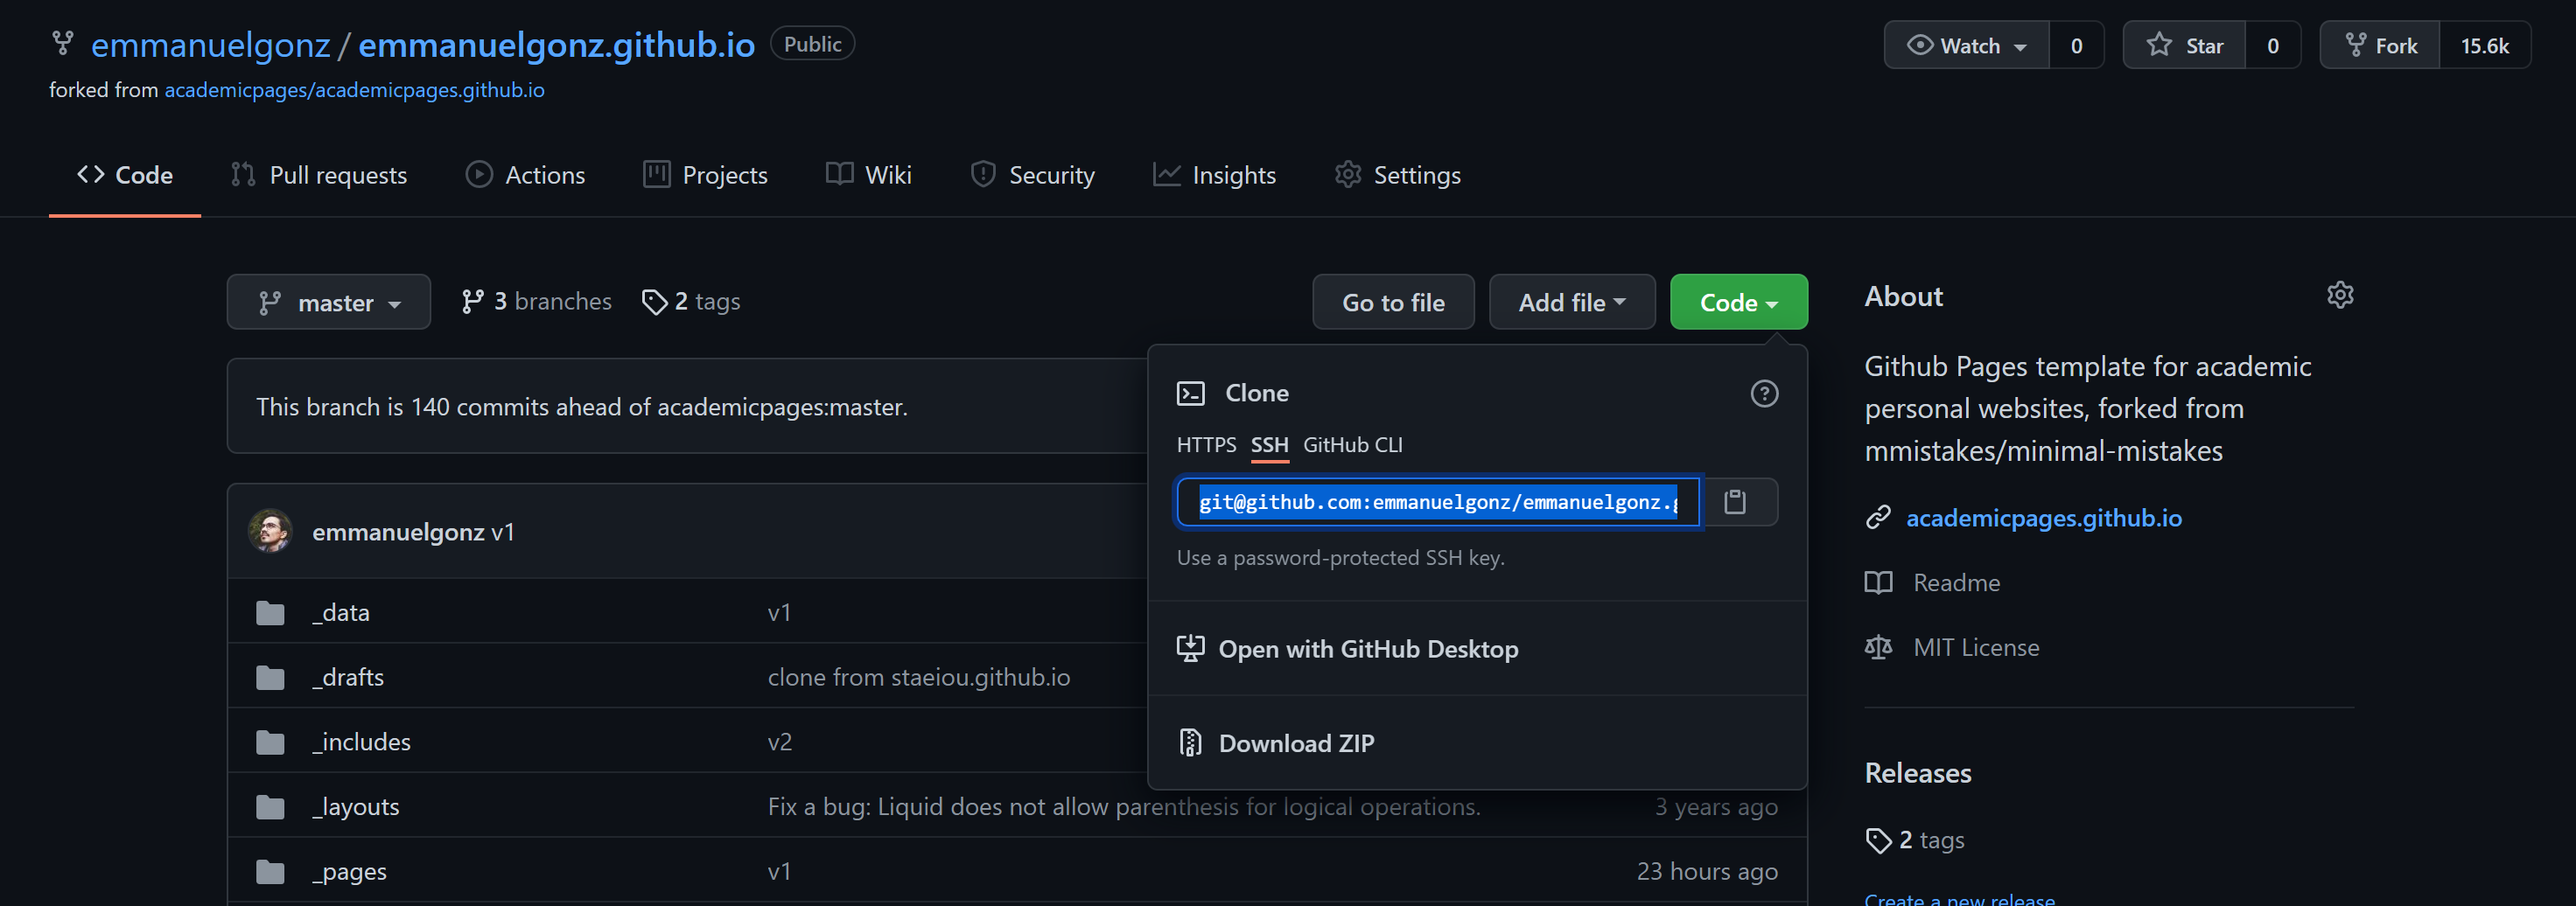
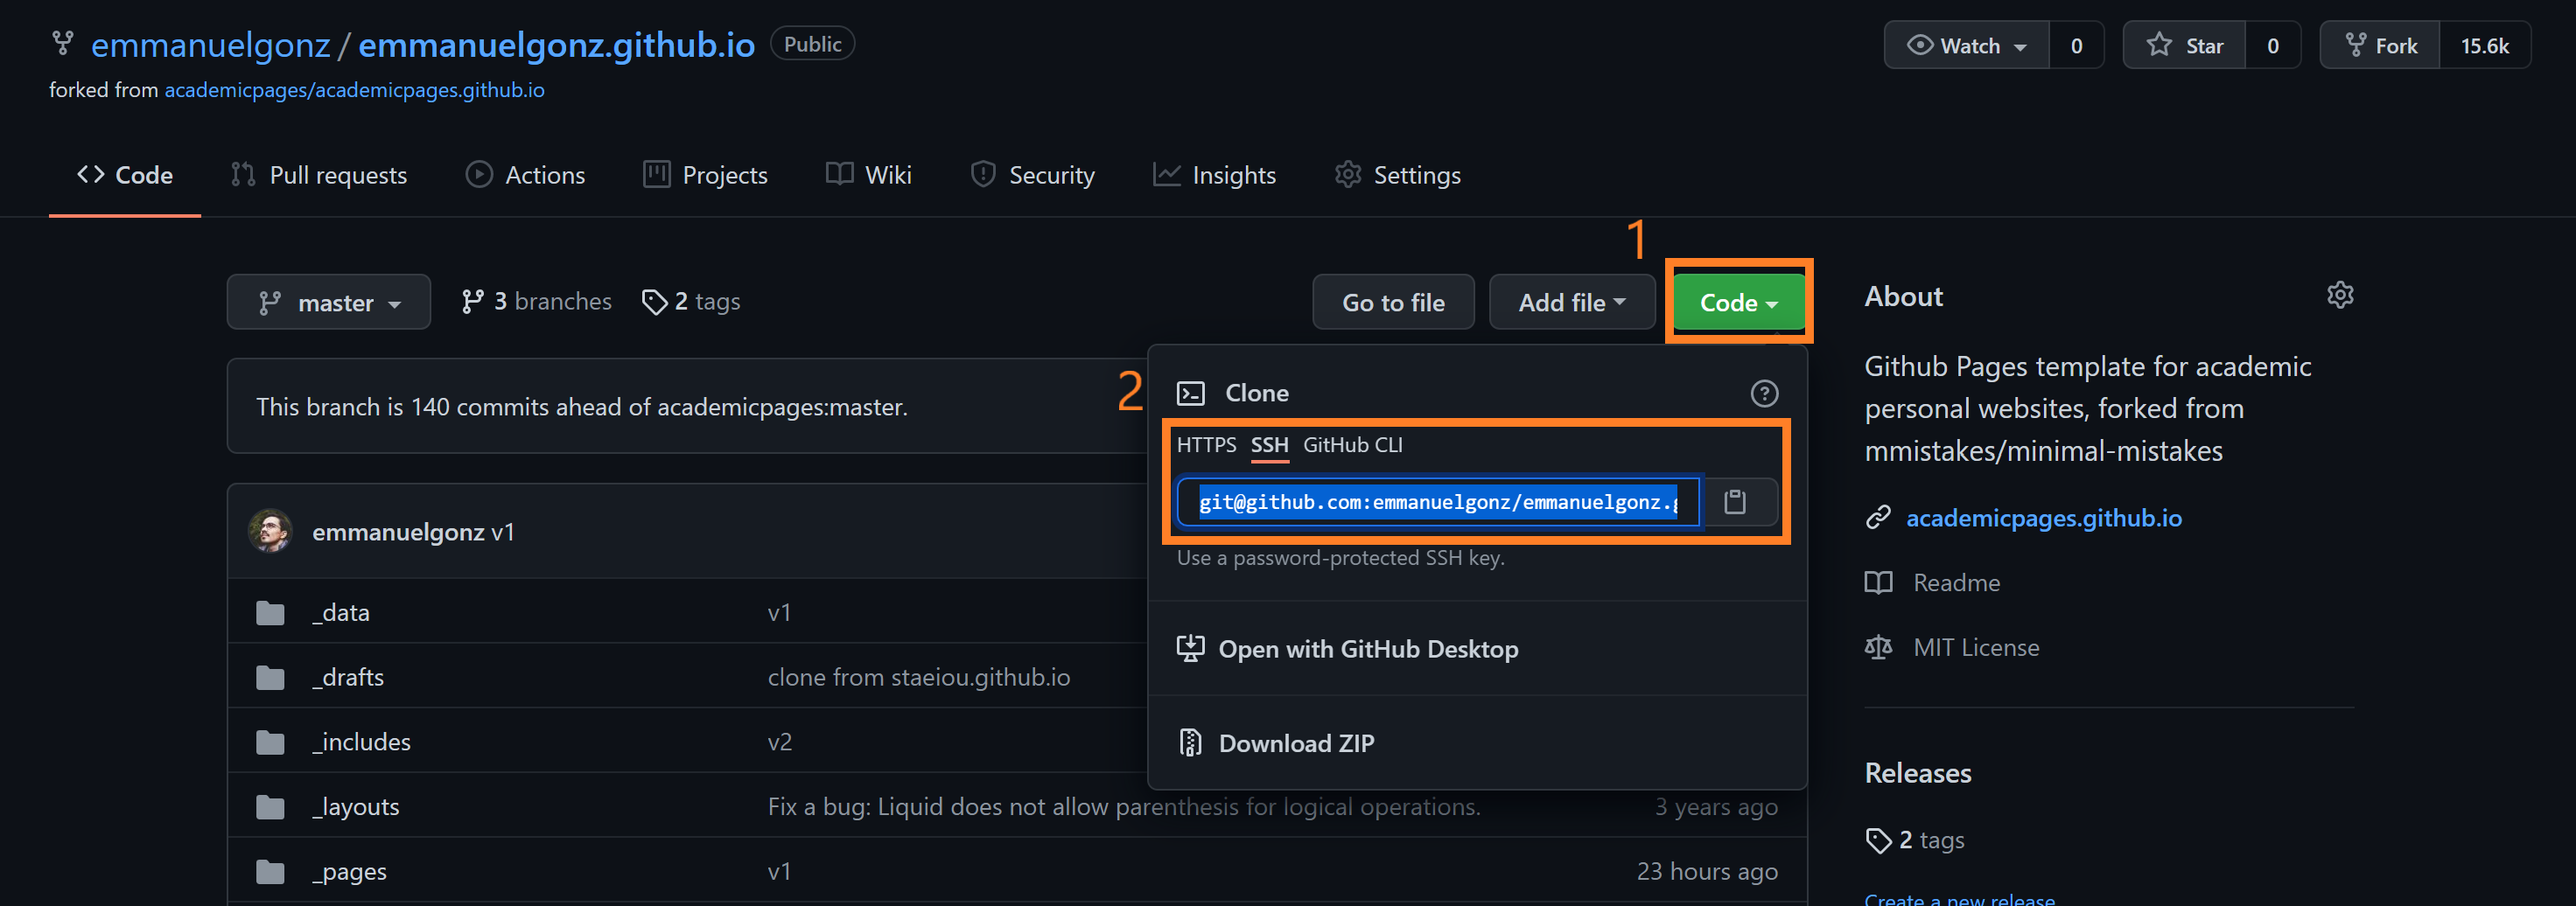
v2

Changed region(s): [[0.4375, 0.4633, 0.7188, 0.6178], [0.625, 0.278, 0.7188, 0.4015]]

diff --git a/_posts/2021-09-20-terminal-git-irods.md b/_posts/2021-09-20-terminal-git-irods.md
@@ -75,8 +75,17 @@ vim ~/.ssh/id_rsa.pub
 
 ## Fork & clone a repo
 1. Fork the [Academic Pages](https://github.com/academicpages/academicpages.github.io) repo. 
+
+![](/images/fork_repo.png)
+
 2. Click on the green "Code" button and copy the link to clone your own repo.
+
+![](/images/clone_repo.png)
+
 3. Rename the repo to your GitHub username:
+
+![](/images/rename_repo.png)
+
 4. On your terminal, run: 
 ```
 git clone <insert link here>
